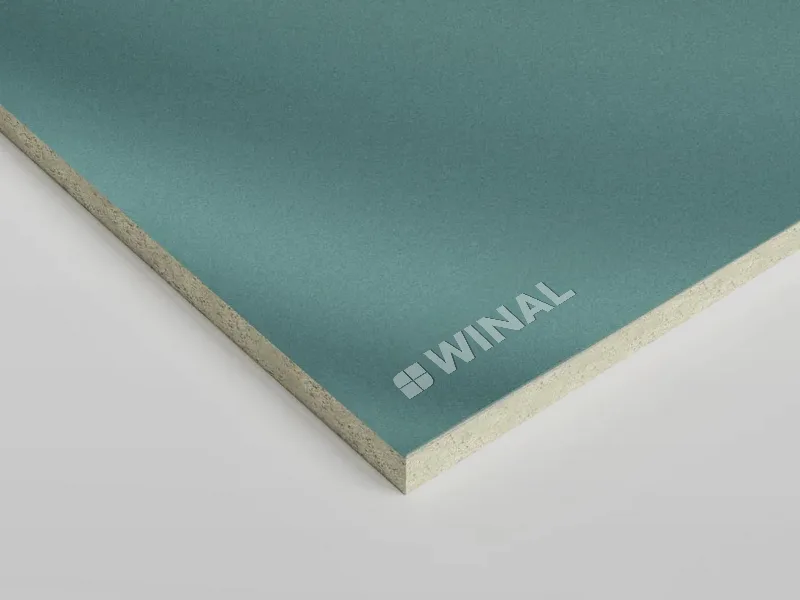
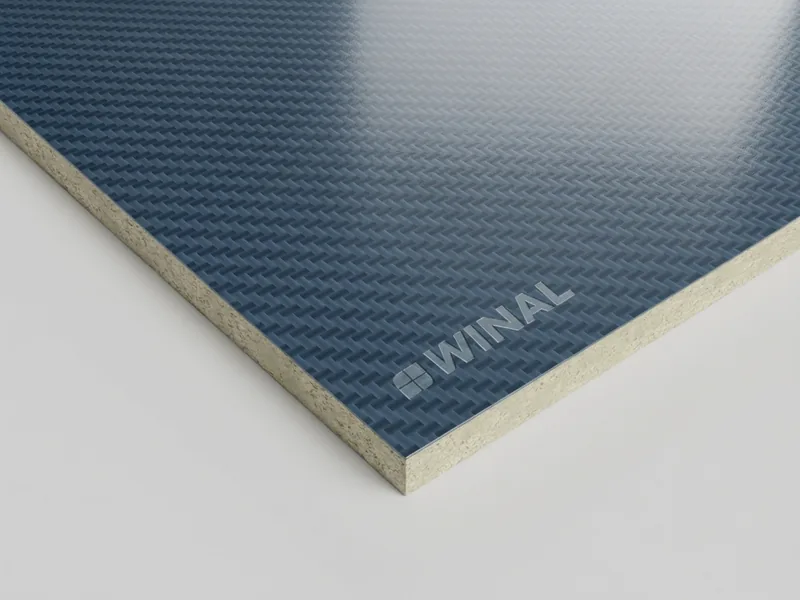
СМЛ Полимер: blue carbon catalogue cover and first gallery shot
Rendered in the reference camera scene with the SML 10 mm edge and the
approved soft-box highlight, refined with img2img (variant A).

Claude-Session: https://claude.ai/code/session_01KsZN6Eztc5FAnkXxyBkDH4

diff --git a/src/data/wall-sml-polymer-product-modal.ts b/src/data/wall-sml-polymer-product-modal.ts
@@ -26,6 +26,10 @@ export const WALL_SML_POLYMER_PRODUCT_MODAL_ID = "wall-sml-polymer-product-modal
 export const wallSmlPolymerModalAssets = {
   gallery: [
     {
+      src: `${GALLERY}/sml-polymer-karbon-sinij.webp`,
+      caption: "WINAL™ СМЛ Полимер: синий карбон",
+    },
+    {
       src: `${GALLERY}/sten-panel-sml-winal-high-glow-premium-1.webp`,
       caption: "Стеновые панели СМЛ Премиум высокий глянец",
     },
